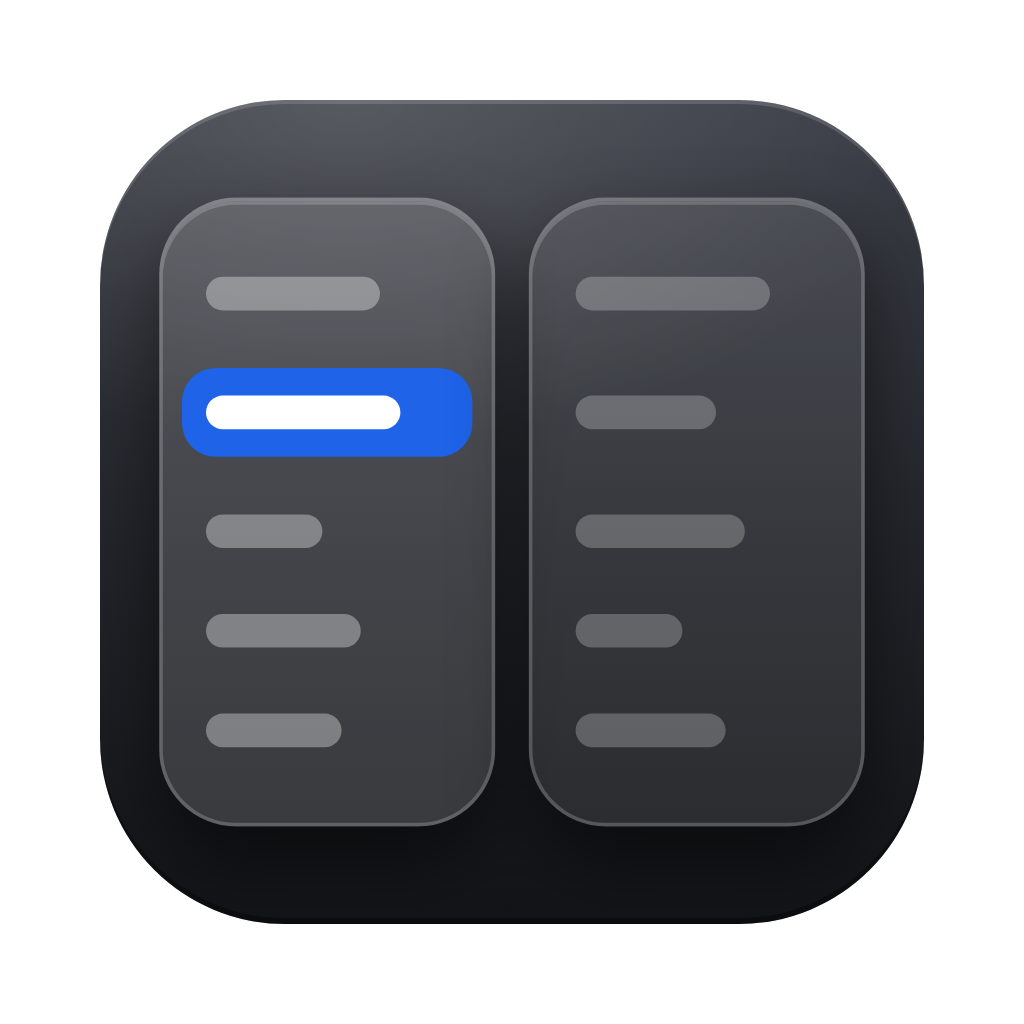
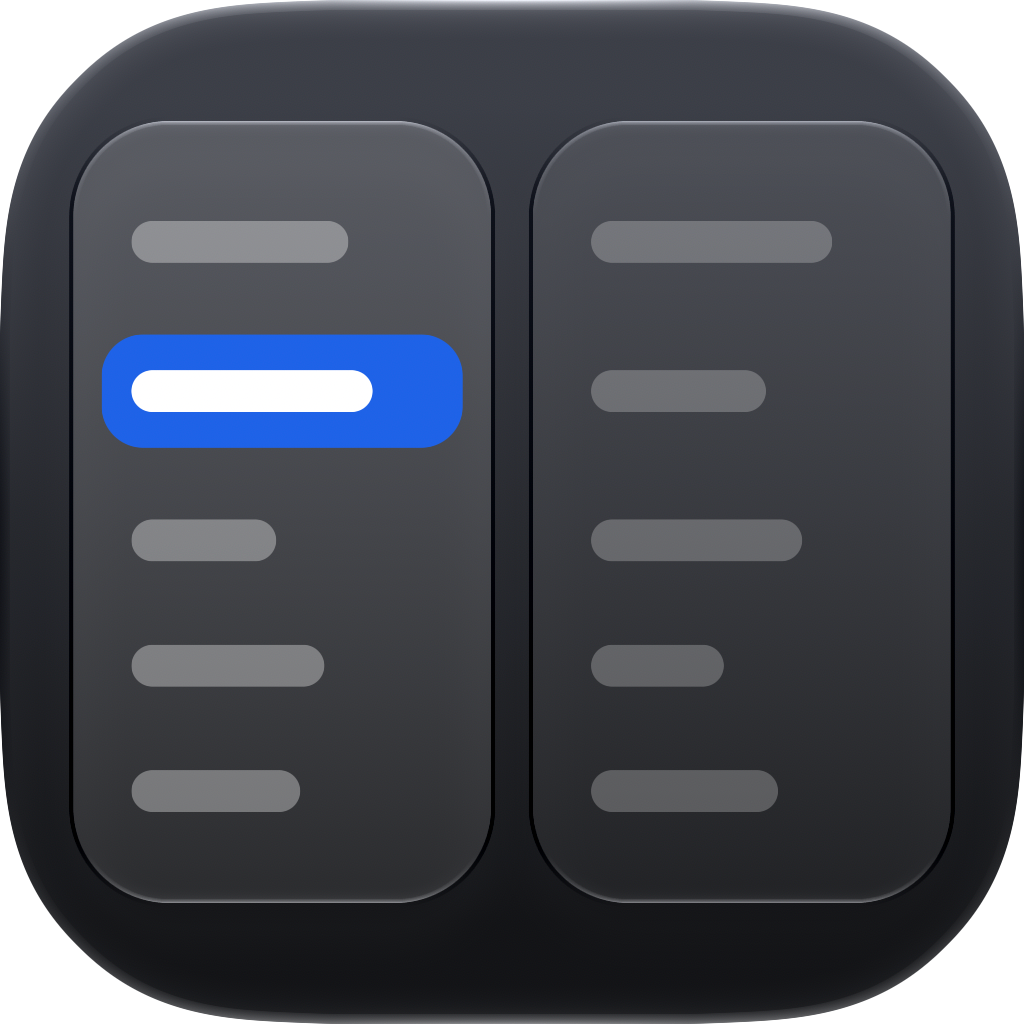
Строки в иконке перестали ловить стекло и блик
Тонкие полоски-строки преломляли свет и бликовали по всему периметру, и на
macOS 27 иконка выглядела перегруженной. Liquid Glass снят с каждого слоя
группы Content, specular у группы выключен; у панелей стекло осталось.

Правка легла в обе копии пакета: дизайнерскую в docs/design и сборочную
macos/Runner/AppIcon.icon — собирается вторая, и она отставала от первой.

diff --git a/docs/design/FileManagerIcon/README.md b/docs/design/FileManagerIcon/README.md
@@ -6,6 +6,17 @@
 - `Previews/` — PNG 1024 с эффектами: default, dark, clear (для сайта, App Store, README).
 - `Legacy/AppIcon.icns` и `AppIcon.iconset` — растровая иконка для macOS 15 и старше или для сборки без Xcode 26.
 
+## Пакет существует в двух копиях
+- `FileManager.icon` здесь — **дизайнерский исходник**, в сборку он не идёт.
+- `macos/Runner/AppIcon.icon` — **то, что собирается** (`AppIcon.icon in Resources`
+  в `macos/Runner.xcodeproj/project.pbxproj`).
+
+Копии расходятся молча. Меняете иконку — меняйте **оба** `icon.json` и сверяйте `diff`.
+Если на диске исправлено, а в приложении старое, — первым делом смотрите, на какую из копий.
+
+Набор PNG в `macos/Runner/Assets.xcassets/AppIcon.appiconset` — плоская легаси-иконка
+для старых систем; к стеклу на macOS 26+ отношения не имеет.
+
 ## Быстрый путь (Xcode 26)
 1. Откройте `FileManager.icon` в Icon Composer и проверьте режимы Default / Dark / Clear / Tinted.
 2. Перетащите `FileManager.icon` в навигатор проекта.
@@ -18,13 +29,18 @@
 **Фон (Fill):** линейный градиент #5AAEFF → #1648C4. Для Dark: #3C3F47 → #131417.
 Либо можно положить `background.svg` отдельным слоем.
 
-**Группа Panels** (нижняя). Specular: вкл, Translucency: 40%, Shadow: Layer Color 50%.
+**Группа Panels** (нижняя). Liquid Glass: вкл, Specular: вкл, Translucency: 40%, Shadow: Layer Color 50%.
 | Слой | Цвет | Opacity light / dark |
 |---|---|---|
 | panel_left | #FFFFFF | 94% / 15% |
 | panel_right | #FFFFFF | 74% / 9% |
 
-**Группа Content** (верхняя). Specular: вкл, Translucency: выкл, Shadow: Neutral 30%.
+**Группа Content** (верхняя). Liquid Glass: **выкл** у каждого слоя (`"glass": false`),
+Specular: **выкл**, Translucency: выкл, Shadow: Neutral 30%.
+
+Стекло со строк снято намеренно: тонкие полоски ловили преломление и блик по всему
+периметру, и на macOS 27 иконка выглядела перегруженной. Стекло осталось только у панелей.
+`glass` — свойство **слоя**, а не группы: на объекте группы этот ключ игнорируется.
 Слои сверху вниз:
 | Слой | Цвет light / dark | Opacity light / dark |
 |---|---|---|
